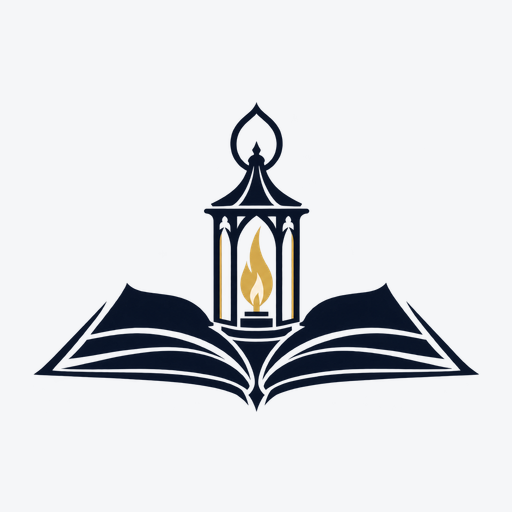
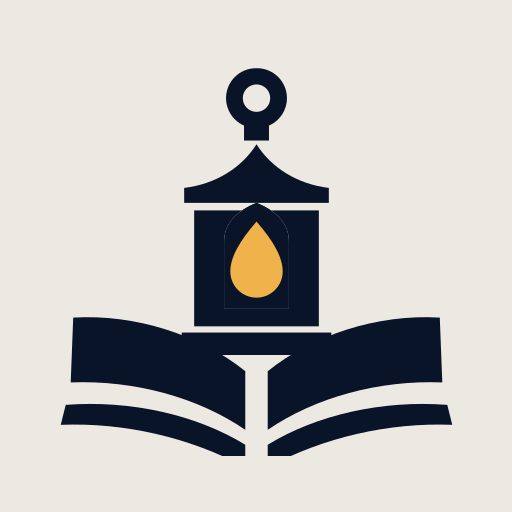
feat(site): dessiner l’emblème seul (GLO-01) et en tirer les icônes
Une lanterne au creux d’un livre ouvert, sur une grille de 32, d’après le logo validé : deux aplats et une flamme lisible à 16 px. Il remplace l’emblème illustré dans l’en-tête mobile, marque en filigrane les visuels en attente, et tools/preparer-icones.mjs en tire les favicons, l’ICO et les icônes d’application.

Changed region(s): [[0.0625, 0.125, 0.9375, 0.9062]]

diff --git a/site/tests/unit/visuels.test.ts b/site/tests/unit/visuels.test.ts
@@ -166,12 +166,12 @@ describe('registre des visuels : liste des manquants', () => {
     expect(etat.manquantsSocle.map((v: { id: string }) => v.id)).toContain('GLO-02');
   });
 
-  it('sur le dépôt réel, ne signale comme présents que les photos (couverture, parcours, contact, 404), la figure du plafond, la lanterne de la bascule, les pictos des trois verbes, les deux dessins animés de l’accueil et les deux captures de la vitrine', () => {
+  it('sur le dépôt réel, ne signale comme présents que les photos (couverture, parcours, contact, 404), la figure du plafond, l’emblème seul, la lanterne de la bascule, les pictos des trois verbes, les deux dessins animés de l’accueil et les deux captures de la vitrine', () => {
     const etat = etatDesVisuels(SITE);
-    expect(etat.presents).toBe(11);
-    expect(etat.manquantsSocle).toHaveLength(76);
-    for (const id of ['GLO-03', 'GLO-04', 'ACC-14', 'ACC-17', 'PRJ-04', 'PRJ-05', 'PAR-PHO', 'CON-PHO', 'ERR-PHO']) expect(etat.manquantsSocle.map((v: { id: string }) => v.id)).not.toContain(id);
-    expect(resume(etat)).toMatch(/76 visuels « socle » manquants/);
+    expect(etat.presents).toBe(12);
+    expect(etat.manquantsSocle).toHaveLength(75);
+    for (const id of ['GLO-01', 'GLO-03', 'GLO-04', 'ACC-14', 'ACC-17', 'PRJ-04', 'PRJ-05', 'PAR-PHO', 'CON-PHO', 'ERR-PHO']) expect(etat.manquantsSocle.map((v: { id: string }) => v.id)).not.toContain(id);
+    expect(resume(etat)).toMatch(/75 visuels « socle » manquants/);
   });
 
   afterAll(() => rmSync(racine, { recursive: true, force: true }));

diff --git a/site/src/assets/visuels/global/README.md b/site/src/assets/visuels/global/README.md
@@ -2,5 +2,6 @@
 
 | Fichier | Visuel | Provenance |
 |---|---|---|
+| `GLO-01.svg` | L’emblème seul, redessiné pour les petites tailles : une lanterne au creux d’un livre ouvert. Encre en `currentColor` (classe `em-encre`), vitre de la lanterne (`em-vitre`) et flamme (`em-lumiere`) recolorables. Sert à l’en-tête mobile (components/ui/Logo.astro), au filigrane des visuels en attente (components/ui/Visuel.astro) et aux icônes (`node tools/preparer-icones.mjs` : favicons jour et nuit, ICO, Apple, application et masquable). | Dessin vectoriel écrit à la main sur une grille de 32, d’après le logo validé le 8 octobre 2026 (`src/assets/marque/`), sans le nom : deux aplats, flamme lisible à 16 px. Dessiné le 13 octobre 2026. |
 | `GLO-03.svg` | La lanterne de la bascule jour / nuit, en trois calques (`lt-halo`, `lt-trait`, `lt-flamme`) que le site anime en CSS : éteinte le jour, flamme qui s’allume en 400 ms, allumée avec son halo la nuit. | Dessin vectoriel écrit à la main pour la direction « Lanterne » (design/refonte/c-lanterne), grille de 24, trait de 1,4 en `currentColor`. Repris le 13 octobre 2026. |
 | `GLO-04.svg` | Les pictogrammes des trois verbes du récit : maîtriser (un livre de règles ouvert, son signet), réinventer (une carte tirée d’un éventail), emmener (une lanterne qui en allume une seconde). Trois `<symbol>` (`maitriser`, `reinventer`, `emmener`), insérés dans la page par `components/ui/PictoVerbe.astro`, qui les recolore par jetons (classes `p-trait`, `p-doux`, `p-pointille`, `p-plein`, `p-creux`). | Dessin vectoriel écrit à la main d’après la maquette « Lanterne » (design/refonte/c-lanterne), grille de 48, trait de 1,6. Sorti du bandeau des preuves de l’accueil le 13 octobre 2026. |
